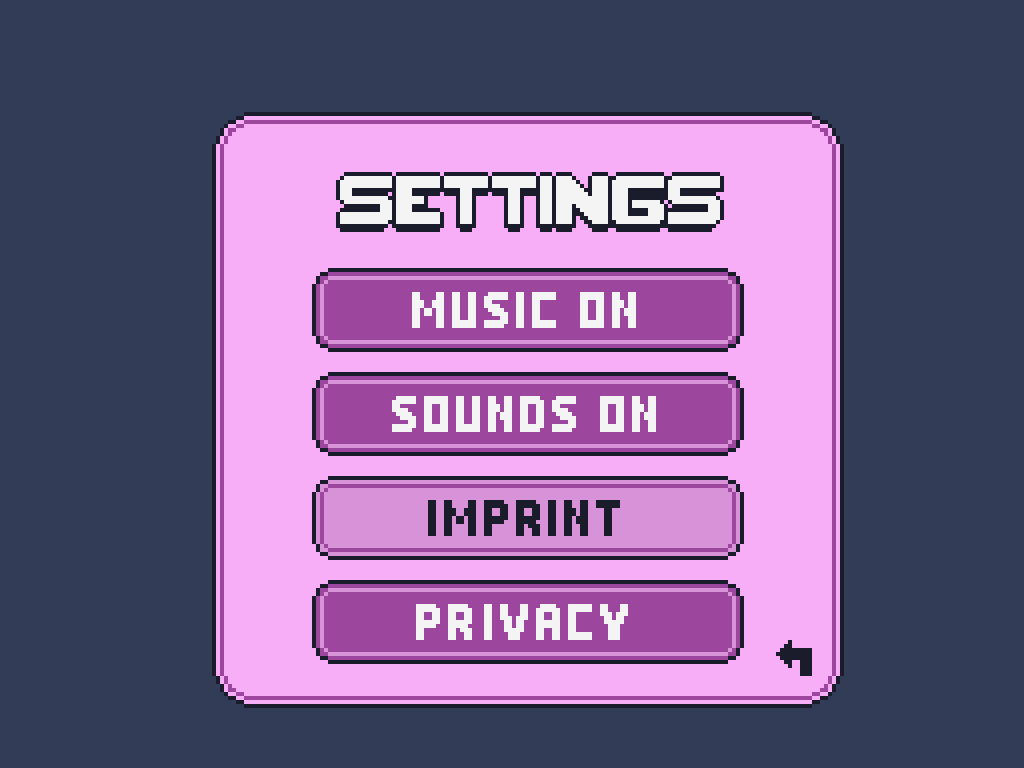
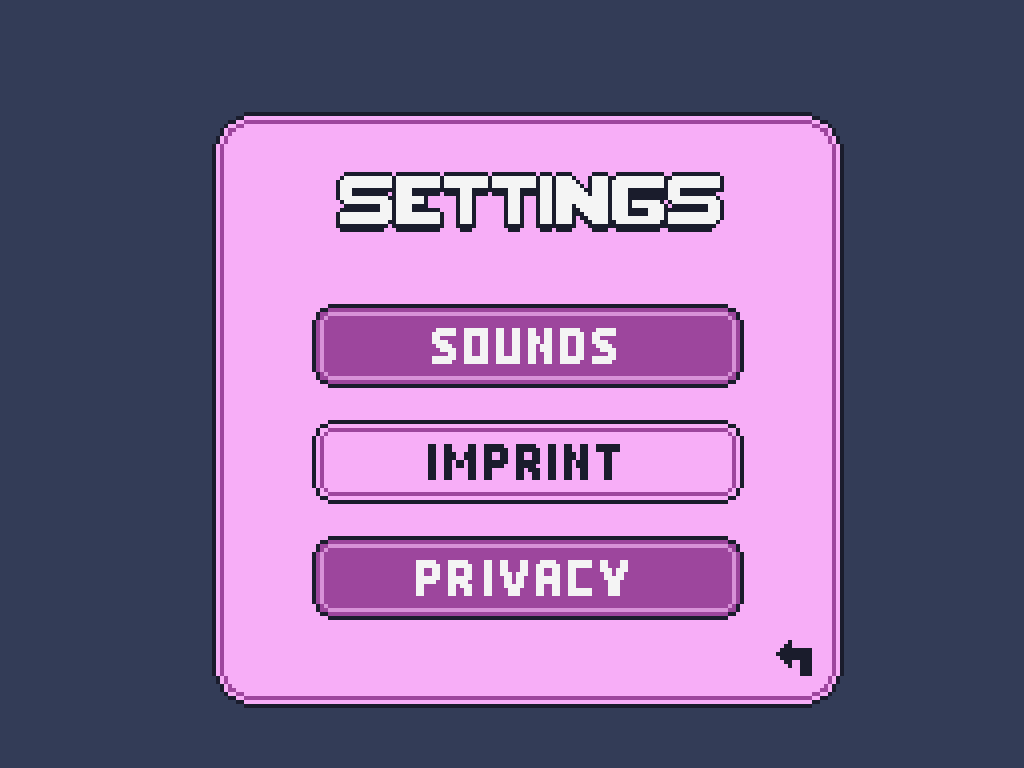
added some new objects

Changed region(s): [[0.2812, 0.3438, 0.75, 0.875]]

diff --git a/js/game.js b/js/game.js
@@ -4,6 +4,8 @@ let world;
 let keyboard = new Keyboard();
 let gameStarted = false;
 let gamePaused = false;
+let music = true;
+let sounds = true;
 
 const menuImage = new Image();
 const playImage = new Image();
@@ -17,6 +19,10 @@ const settingsMenuSounds = new Image();
 const settingsMenuImprint = new Image();
 const settingsMenuPrivacy = new Image();
 const settingsMenuReturn = new Image();
+const soundMenuMusicOnSoundsOn = new Image();
+const soundMenuMusicOnSoundsOff = new Image();
+const soundMenuMusicOffSoundsOn = new Image();
+const soundMenuMusicOffSoundsOff = new Image();
 
 menuImage.src = 'img/menu/Menu.png';
 playImage.src = 'img/menu/Menu_play_hover.png';
@@ -26,10 +32,13 @@ controlsMenu.src = 'img/menu/controls.png';
 controlsMenuHover.src = 'img/menu/controls_hover.png';
 settingsMenu.src = 'img/menu/Settings.png';
 settingsMenuReturn.src = 'img/menu/Settings_return_hover.png';
-settingsMenuMusic.src = 'img/menu/Settings_music_hover.png';
 settingsMenuSounds.src = 'img/menu/Settings_sounds_hover.png';
 settingsMenuImprint.src = 'img/menu/Settings_imprint_hover.png';
 settingsMenuPrivacy.src = 'img/menu/Settings_privacy_hover.png';
+soundMenuMusicOnSoundsOn.src = 'img/menu/soundsOnMusicOn.png';
+soundMenuMusicOnSoundsOff.src = 'img/menu/soundsOffMusicOn.png';
+soundMenuMusicOffSoundsOn.src = 'img/menu/soundsOnMusicOff.png';
+soundMenuMusicOffSoundsOff.src = 'img/menu/soundsOffMusicOff.png';
 
 let currentMenu = 'main';
 
@@ -105,10 +114,9 @@ function handleControlsMenuMouseMove(x, y) {
  */
 function handleSettingsMenuMouseMove(x, y) {
     if (isWithinBounds(x, y, 770, 820, 635, 685)) drawImage(settingsMenuReturn);
-    else if (isWithinBounds(x, y, 320, 740, 275, 345)) drawImage(settingsMenuMusic);
-    else if (isWithinBounds(x, y, 320, 740, 380, 450)) drawImage(settingsMenuSounds);
-    else if (isWithinBounds(x, y, 320, 740, 485, 555)) drawImage(settingsMenuImprint);
-    else if (isWithinBounds(x, y, 320, 740, 590, 660)) drawImage(settingsMenuPrivacy);
+    else if (isWithinBounds(x, y, 320, 740, 310, 380)) drawImage(settingsMenuSounds);
+    else if (isWithinBounds(x, y, 320, 740, 427, 497)) drawImage(settingsMenuImprint);
+    else if (isWithinBounds(x, y, 320, 740, 543, 613)) drawImage(settingsMenuPrivacy);
     else drawImage(settingsMenu);
 }
 
@@ -190,14 +198,13 @@ function handleSettingsMenuClick(x, y) {
         currentMenu = 'main';
         drawImage(menuImage);
         clickSound.play();
-    } else if (isWithinBounds(x, y, 320, 740, 275, 345)) {
+    } else if (isWithinBounds(x, y, 320, 740, 310, 380)) {
         clickSound.play();
-    } else if (isWithinBounds(x, y, 320, 740, 380, 450)) {
-        clickSound.play();
-    } else if (isWithinBounds(x, y, 320, 740, 485, 555)) {
+        showSoundMenu(); // Initialisiere und zeige das Sound-Menü
+    } else if (isWithinBounds(x, y, 320, 740, 427, 497)) {
         window.open('html/imprint.html', '_blank');
         clickSound.play();
-    } else if (isWithinBounds(x, y, 320, 740, 590, 660)) {
+    } else if (isWithinBounds(x, y, 320, 740, 543, 613)) {
         window.open('html/privacy.html', '_blank');
         clickSound.play();
     }
@@ -305,3 +312,74 @@ window.addEventListener("keyup", handleKeyUp);
 
 // Initialisieren Sie das Menü
 window.addEventListener('load', init);
+
+/**
+ * Displays the sound menu on the canvas based on the current settings.
+ */
+function showSoundMenu() {
+    currentMenu = 'sound';
+    ctx.clearRect(0, 0, canvas.width, canvas.height);
+    if (music && sounds) {
+        ctx.drawImage(soundMenuMusicOnSoundsOn, 0, 0, canvas.width, canvas.height);
+    } else if (music && !sounds) {
+        ctx.drawImage(soundMenuMusicOnSoundsOff, 0, 0, canvas.width, canvas.height);
+    } else if (!music && sounds) {
+        ctx.drawImage(soundMenuMusicOffSoundsOn, 0, 0, canvas.width, canvas.height);
+    } else {
+        ctx.drawImage(soundMenuMusicOffSoundsOff, 0, 0, canvas.width, canvas.height);
+    }
+    addSoundMenuEventListeners();
+}
+
+/**
+ * Adds event listeners for the sound menu.
+ */
+function addSoundMenuEventListeners() {
+    canvas.addEventListener('mousemove', handleSoundMenuMouseMove);
+    canvas.addEventListener('click', handleSoundMenuClick);
+}
+
+/**
+ * Removes event listeners for the sound menu.
+ */
+function removeSoundMenuEventListeners() {
+    canvas.removeEventListener('mousemove', handleSoundMenuMouseMove);
+    canvas.removeEventListener('click', handleSoundMenuClick);
+}
+
+/**
+ * Handles mouse movement events in the sound menu.
+ * @param {MouseEvent} event - The mouse event.
+ */
+function handleSoundMenuMouseMove(event) {
+    const { x, y } = getMousePos(event);
+    if (isWithinBounds(x, y, 320, 740, 310, 380)) {
+        // Update coordinates as needed
+    } else if (isWithinBounds(x, y, 320, 740, 427, 497)) {
+        // Update coordinates as needed
+    } else if (isWithinBounds(x, y, 320, 740, 543, 613)) {
+        // Update coordinates as needed
+    }
+}
+
+/**
+ * Handles click events in the sound menu.
+ * @param {MouseEvent} event - The mouse event.
+ */
+function handleSoundMenuClick(event) {
+    const { x, y } = getMousePos(event);
+    if (isWithinBounds(x, y, 320, 740, 310, 380)) {
+        sounds = !sounds;
+        clickSound.play();
+        showSoundMenu();
+    } else if (isWithinBounds(x, y, 320, 740, 427, 497)) {
+        music = !music;
+        clickSound.play();
+        showSoundMenu();
+    } else if (isWithinBounds(x, y, 770, 820, 635, 685)) {
+        clickSound.play();
+        removeSoundMenuEventListeners();
+        currentMenu = 'settings';
+        drawImage(settingsMenu);
+    };
+}

diff --git a/index.html b/index.html
@@ -5,7 +5,7 @@
     <meta charset="UTF-8">
     <meta name="viewport" content="width=device-width, initial-scale=1.0">
     <link rel="stylesheet" href="style.css">
-    <link rel="icon" type="image/png" href="/img/favicon/favicon_ufo.png">
+    <link rel="icon" type="image/png" href="/img/enemys/alien1/alien_walk_1.png">
     <script src="/js/classes/drawable-object.class.js"></script>
     <script src="/js/classes/moveable-object.class.js"></script>
     <script src="/js/classes/world.class.js"></script>

diff --git a/html/privacy.html b/html/privacy.html
@@ -4,6 +4,7 @@
 <head>
     <meta charset="UTF-8">
     <meta name="viewport" content="width=device-width, initial-scale=1.0">
+    <link rel="icon" type="image/png" href="/img/enemys/alien1/alien_walk_1.png">
     <link rel="stylesheet" href="/privacy.css">
     <title>Privacy Policy</title>
 </head>

diff --git a/html/imprint.html b/html/imprint.html
@@ -4,6 +4,7 @@
 <head>
     <meta charset="UTF-8">
     <meta name="viewport" content="width=device-width, initial-scale=1.0">
+    <link rel="icon" type="image/png" href="/img/enemys/alien1/alien_walk_1.png">
     <link rel="stylesheet" href="/imprint.css">
     <title>Imprint</title>
 </head>
